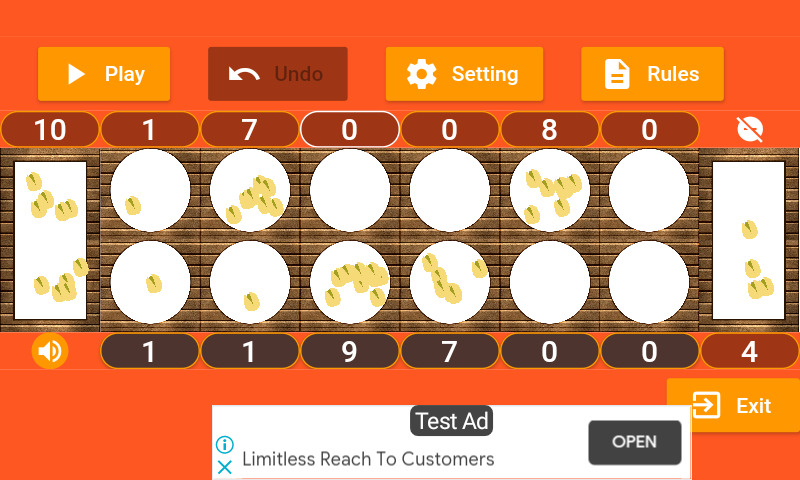
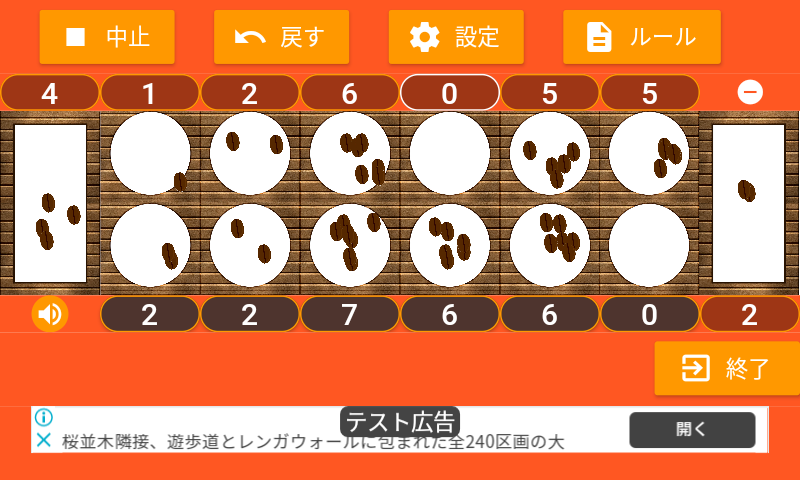
refactor: mancalanuts.md修正

diff --git a/project/2020-08-10/mancalanuts.html b/project/2020-08-10/mancalanuts.html
@@ -240,70 +240,78 @@ MathJax.Hub.Config({
 
 <h3 id="ルール">ルール</h3>
 <p>　数あるマンカラのルールの中で、<code>カラハ（Karah）</code>と呼ばれるルールを採用しています。<br />
-　上下２列に並んだ６つのポケットにナッツが入っていて、上がAI、下があなたです。丸い６つのポケットからどれかを選んでナッツを取り出し、反時計回りにナッツを一つずつポケットに撒いていきます。どちらかの６つのポケットが全て空になったらゲーム終了し、右側の四角い自分の貯蔵所に残ったナッツの数で勝ち負けを判定します。</p>
+　上下２列に並んだ６つのポケットに豆が入っていて、上がAI、下があなたです。丸い６つのポケットからどれかを選んで豆を取り出し、反時計回りに豆を一つずつポケットに撒いていきます。どちらかの６つのポケットが全て空になったらゲーム終了し、右側の四角い自分の貯蔵所に残った豆の数で勝ち負けを判定します。</p>
 <ul>
-  <li>相手の貯蔵所にはナッツを撒きません。</li>
-  <li>ナッツを撒き終わったポケットが自分の貯蔵所の場合、もう一度ポケットを選んでナッツを撒くことが出来ます。</li>
-  <li>自分の空のポケットでナッツを撒き終わった場合、その対称に位置する相手のナッツを横取り（Capture）して自分の貯蔵所に加えることが出来ます。</li>
-  <li>ゲーム終了時にポケットに残ったナッツは全て自分の貯蔵所に加えます。</li>
+  <li>相手の貯蔵所には豆を撒きません。</li>
+  <li>豆を撒き終わったポケットが自分の貯蔵所の場合、もう一度ポケットを選んで豆を撒くことが出来ます。</li>
+  <li>自分の空のポケットで豆を撒き終わった場合、その対称に位置する相手の豆を横取り（Capture）して自分の貯蔵所に加えることが出来ます。</li>
+  <li>ゲーム終了時にポケットに残った豆は全て自分の貯蔵所に加えます。</li>
 </ul>
 
 <h3 id="機能">機能</h3>
 <ul>
   <li>ＡＩ対戦（レベルは３段階）</li>
-  <li>人対人対戦</li>
+  <li>対人対戦</li>
   <li>待った機能</li>
-  <li>ピース選択（コーヒー豆、ピスタチオ、アーモンド）機能</li>
-  <li>ピースの数選択機能（３個、４個、５個から選択）</li>
-  <li>対局成績保存機能（ゲーム途中で設定を変更した場合は対戦成績には記録されません）</li>
+  <li>豆選択（コーヒー、ピスタチオ、アーモンド）機能</li>
+  <li>豆の数選択機能（３個、４個、５個から選択）</li>
+  <li>対戦成績保存機能（ゲーム途中で設定を変更した場合は対戦成績には記録されません）</li>
+  <li>多言語対応、日<code>ja</code>, 英<code>en</code>, 越<code>vi</code></li>
 </ul>
 
 <h3 id="ａｉ対戦">ＡＩ対戦</h3>
 <div style="width:320px; margin: 0 auto;">
-  <p><img src="/images/mancala_screen1.png" alt="ＡＩ対戦画面" title="ＡＩ対戦画面" /></p>
+  <p><a href="/images/mancala_screen1.png"><img src="/images/mancala_screen1.png" alt="ＡＩ対戦画面" title="ＡＩ対戦画面" /></a></p>
 </div>
 
 <ul>
-  <li><code>Stop</code>ボタンでゲームを中断し、<code>Play</code>ボタンで新規対局開始されます。</li>
-  <li><code>Setting</code>画面で<code>One Player</code>を選ぶとＡＩ対戦となります。</li>
+  <li><code>新規ゲーム(New Game)</code>ボタンで新規対局開始されます。</li>
   <li>ＡＩの対戦途中に強さ設定を変更すると、そのゲーム結果は対戦成績に記録されません。</li>
-  <li>ＡＩ対戦の場合は<code>Undo</code>ボタンで一つ前の人間の手番まで戻ります。ＡＩが連続で複数回着手していた場合も複数手分のＡＩの指し手を飛ばして、一つ前の人間の手番の局面に戻ります。</li>
+  <li>ＡＩ対戦の場合は<code>戻す(Undo)</code>ボタンで一つ前の人間の手番まで戻ります。ＡＩが連続で複数回着手していた場合も複数手分のＡＩの指し手を飛ばして、一つ前の人間の手番の局面に戻ります。</li>
+  <li><code>戻す(Undo)</code>ボタンを使用すると対戦成績には記録されません。</li>
+  <li>AIの静的評価関数は<code>先手の貯蔵所に溜まった豆の数 - 後手の貯蔵所に溜まった豆の数</code>で、MIN-MAX法（+ αβ法）を使って先読みを行い指し手を決めます。
+    <ul>
+      <li><code>弱い(Easy)</code> = ３手読み</li>
+      <li><code>強い(Hard)</code> = ８手読み</li>
+      <li><code>やばい(Expert)</code> = １１手読み</li>
+    </ul>
+  </li>
 </ul>
 
 <h3 id="対人対戦">対人対戦</h3>
 <div style="width:320px; margin: 0 auto;">
-  <p><img src="/images/mancala_screen2.png" alt="対人対戦画面" title="対人対戦画面" /></p>
+  <p><a href="/images/mancala_screen2.png"><img src="/images/mancala_screen2.png" alt="対人対戦画面" title="対人対戦画面" /></a></p>
 </div>
 
 <ul>
-  <li><code>Stop</code>ボタンでゲームを中断し、<code>Play</code>ボタンで新規対局開始されます。</li>
-  <li><code>Setting</code>画面で<code>Two Players</code>を選ぶと対人対戦となります。</li>
-  <li>途中でＡＩ対戦に戻すことも出来ます。途中からＡＩ対戦に切り替えても、勝敗は対戦成績には記録されません。</li>
-  <li>対人対戦の場合は<code>Undo</code>ボタンで一手ずつ前の局面に戻ります。</li>
+  <li><code>新規ゲーム(Play)</code>ボタンでゲーム開始、<code>中止(Stop)</code>ボタンでゲームを中断します。</li>
+  <li>ゲーム途中でＡＩ対戦に戻すことも出来ます。途中からＡＩ対戦に切り替えても、勝敗は対戦成績には記録されません。</li>
+  <li>対人対戦の場合は<code>戻す(Undo)</code>ボタンで一手ずつ前の局面に戻ります。</li>
 </ul>
 
 <h3 id="設定画面">設定画面</h3>
 <div style="width:320px; margin: 0 auto;">
-  <p><img src="/images/mancala_screen3.png" alt="設定画面" title="設定画面" /></p>
+  <p><a href="/images/mancala_screen3.png"><img src="/images/mancala_screen3.png" alt="設定画面" title="設定画面" /></a></p>
 </div>
 
 <ul>
-  <li>ピースは<code>Coffee</code>、<code>Pistachio</code>、<code>Almond</code>の３種類から選べます。</li>
-  <li>初期のピースの数は３<code>Three</code>、４<code>Four</code>、５<code>Five</code>の３種類から選べます。</li>
-  <li>ＡＩの強さレベルは<code>Easy</code>、<code>Hard</code>、<code>Expert</code>の３種類から選べます。</li>
-  <li><code>One Player</code>を選ぶとＡＩ対戦、<code>Two Players</code>を選ぶと対人戦が可能です。</li>
+  <li>ゲームに使用する豆は<code>コーヒー(Coffee)</code>、<code>ピスタチオ(Pistachio)</code>、<code>アーモンド(Almond)</code>の３種類から選べます。</li>
+  <li>初期の豆の数は３個、４個、５個の３種類から選べます。</li>
+  <li>ＡＩの強さレベルは<code>弱い(Easy)</code>、<code>強い(Hard)</code>、<code>やばい(Expert)</code>の３種類から選べます。</li>
+  <li><code>AI対戦(One Player)</code>を選ぶとＡＩ対戦、<code>対人対戦(Two Players)</code>を選ぶと対人戦が可能です。</li>
   <li>ＡＩ対戦途中で設定内容を変更した場合そのＡＩ対戦の結果は対戦成績に保存されません。</li>
-  <li>同じパターンの指し手を避けるため、ＡＩのレベル<code>Easy</code>と<code>Hard</code>では初手はランダムに選ぶようにしています。<code>Expert</code>はガチで指し手を決めます<sup id="fnref:1"><a href="#fn:1" class="footnote">1</a></sup>。</li>
-  <li>全てのＡＩのレベルで、同じ評価値の場合はランダムに指し手を選択するようにしていますので、同じ局面で常に同じ指し手を選ぶとは限りません。と言ってもマンカラの場合、読みの深さが同じ場合は複数の指し手で同じ評価値になるケースはあまりないようです<sup id="fnref:2"><a href="#fn:2" class="footnote">2</a></sup>。</li>
+  <li>同じパターンの指し手を避けるため、ＡＩのレベル<code>弱い(Easy)</code>と<code>強い(Hard)</code>では、初手はランダムに選ぶようにしています。<code>やばい(Expert)</code>はガチで指し手を決めます<sup id="fnref:1"><a href="#fn:1" class="footnote">1</a></sup>。</li>
+  <li>全てのＡＩのレベルで、同じ評価値の場合はランダムに指し手を選択するようにしていますので、同じ局面で常に同じ指し手を選ぶとは限りません。と言ってもマンカラの場合、読みの深さが同じ場合は複数の指し手で同じ評価値になるケースはあまりないようです。</li>
 </ul>
 
 <h3 id="ゲーム成績画面">ゲーム成績画面</h3>
 <div style="width:320px; margin: 0 auto;">
-  <p><img src="/images/mancala_screen4.png" alt="ＡＩ対戦成績画面" title="ＡＩ対戦成績画面" /></p>
+  <p><a href="/images/mancala_screen4.png"><img src="/images/mancala_screen4.png" alt="ＡＩ対戦成績画面" title="ＡＩ対戦成績画面" /></a></p>
 </div>
 
 <ul>
   <li>ＡＩ対戦の対戦成績を閲覧出来ます。</li>
+  <li>豆の数（３、４、５）別に対戦成績が記録されます。表の左上の数字はゲーム開始時に配置されている豆の数です。</li>
 </ul>
 
 <hr />
@@ -311,10 +319,7 @@ MathJax.Hub.Config({
 <div class="footnotes">
   <ol>
     <li id="fn:1">
-      <p>一時期<code>Expert</code>モードでも初手をランダムにしてリリースしていた時期がありましたが、マンカラの場合、初手に悪手を選ぶとその段階で回復不可能な程形勢を大きく損ねるようなので、<code>Expert</code>の時だけはランダム指し手を止めました。 <a href="#fnref:1" class="reversefootnote">&#8617;</a></p>
-    </li>
-    <li id="fn:2">
-      <p>評価関数は<code>（先手のストアに溜まったピースの数 - 後手のストアに溜まったピースの数）</code>です。 <a href="#fnref:2" class="reversefootnote">&#8617;</a></p>
+      <p>一時期<code>やばい(Expert)</code>モードでも初手をランダムにしてリリースしていた時期がありましたが、マンカラの場合、初手に悪手を選ぶとその段階で回復不可能な程形勢を大きく損ねるようなので、<code>やばい(Expert)</code>の時だけは初手のランダム指し手を止めました。将棋やチェスなどと較べると初手から既に勝敗に大きく関わるようです。 <a href="#fnref:1" class="reversefootnote">&#8617;</a></p>
     </li>
   </ol>
 </div>
